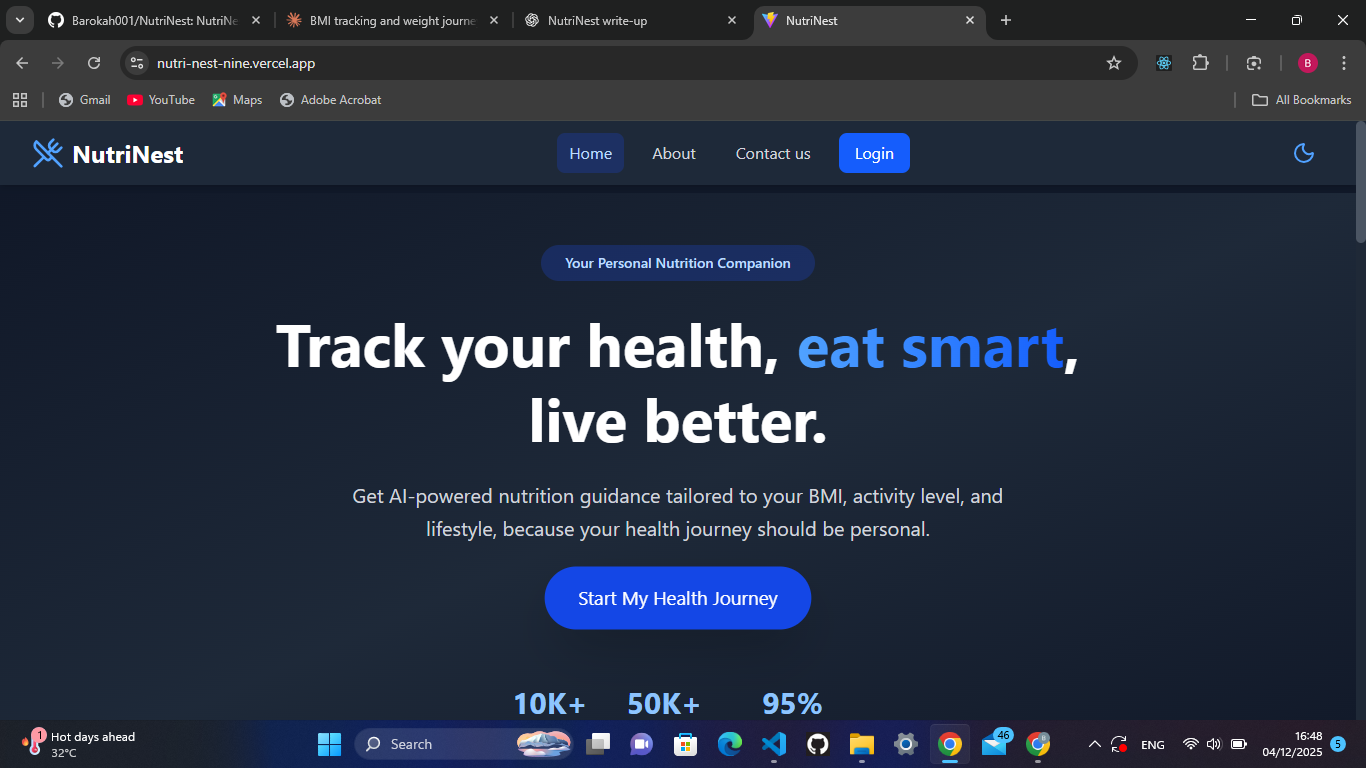
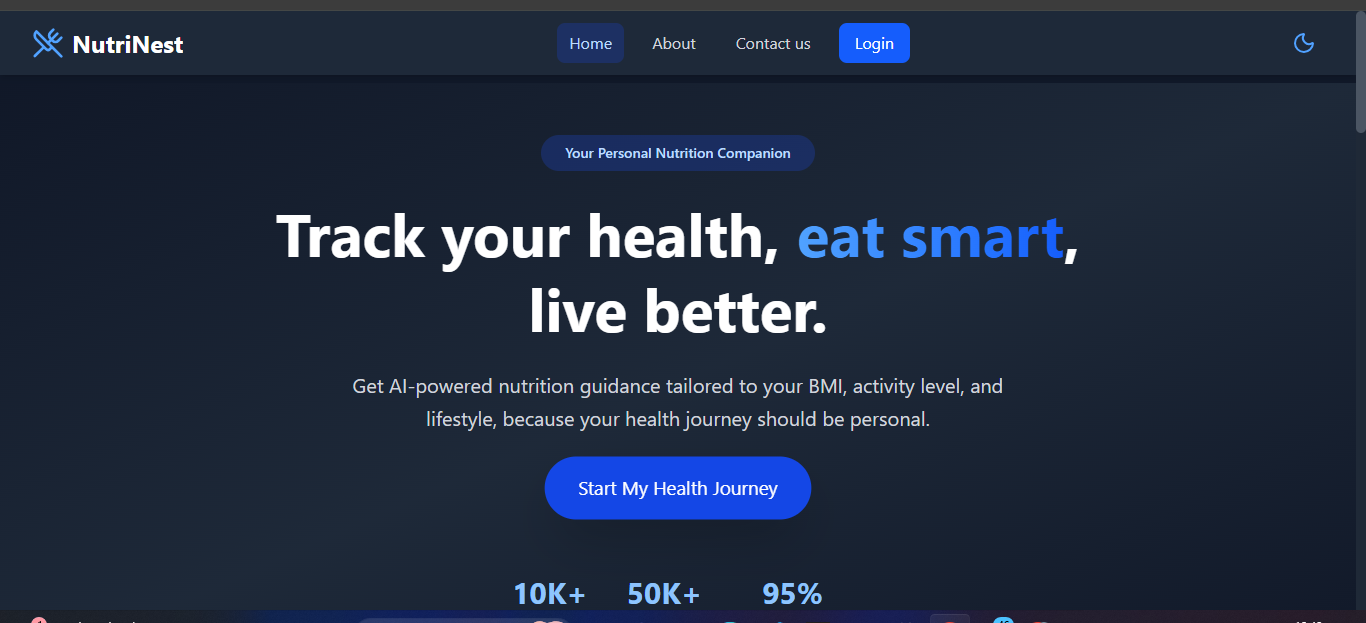
fix: fixed ui designs

diff --git a/src/components/HeroSection.jsx b/src/components/HeroSection.jsx
@@ -11,13 +11,27 @@ const HeroSection = () => {
   return (
     <section
       id="hero"
-      className="relative min-h-screen flex items-center justify-center bg-gradient-to-br from-indigo-900 via-purple-900 to-pink-800 overflow-hidden"
+      className="relative min-h-screen flex items-center justify-center bg-gradient-to-br from-gray-900 via-purple-900 to-gray-900 overflow-hidden"
     >
-      {/* Animated Background Elements */}
+      {/* Animated Background Pattern */}
+      <div className="absolute inset-0 opacity-20">
+        <div
+          className="absolute inset-0"
+          style={{
+            backgroundImage: `radial-gradient(circle at 25px 25px, rgba(167, 139, 250, 0.3) 2%, transparent 0%), 
+                           radial-gradient(circle at 75px 75px, rgba(139, 92, 246, 0.3) 2%, transparent 0%)`,
+            backgroundSize: "100px 100px",
+          }}
+        ></div>
+      </div>
+
+      {/* Gradient Orbs */}
       <div className="absolute inset-0">
-        <div className="absolute top-20 left-10 w-72 h-72 bg-purple-500 rounded-full mix-blend-multiply filter blur-xl opacity-20 animate-blob"></div>
-        <div className="absolute top-40 right-10 w-72 h-72 bg-yellow-500 rounded-full mix-blend-multiply filter blur-xl opacity-20 animate-blob animation-delay-2000"></div>
-        <div className="absolute bottom-20 left-40 w-72 h-72 bg-pink-500 rounded-full mix-blend-multiply filter blur-xl opacity-20 animate-blob animation-delay-4000"></div>
+        <div className="absolute top-1/4 left-1/4 w-96 h-96 bg-purple-600 rounded-full mix-blend-multiply filter blur-3xl opacity-20 animate-pulse"></div>
+        <div
+          className="absolute bottom-1/4 right-1/4 w-96 h-96 bg-blue-600 rounded-full mix-blend-multiply filter blur-3xl opacity-20 animate-pulse"
+          style={{ animationDelay: "1s" }}
+        ></div>
       </div>
 
       {/* Content */}
@@ -32,11 +46,11 @@ const HeroSection = () => {
           <TypewriterText text="Hi, I'm Barokah Oyindamola" speed={80} />
         </h1>
 
-        <p className="text-xl md:text-2xl text-purple-200 mb-4 font-light">
+        <p className="text-xl md:text-2xl text-purple-300 mb-4 font-light">
           Frontend Developer & UI Enthusiast
         </p>
 
-        <p className="text-lg text-purple-100 mb-12 max-w-2xl mx-auto leading-relaxed">
+        <p className="text-lg text-gray-300 mb-12 max-w-2xl mx-auto leading-relaxed">
           Crafting exceptional digital experiences with clean code, modern
           design, and a passion for creating intuitive user interfaces
         </p>
@@ -44,7 +58,7 @@ const HeroSection = () => {
         <div className="flex flex-col sm:flex-row gap-4 justify-center items-center">
           <button
             onClick={scrollToProjects}
-            className="px-8 py-4 bg-white text-purple-900 rounded-full font-semibold hover:shadow-2xl transform hover:-translate-y-1 transition-all"
+            className="px-8 py-4 bg-gradient-to-r from-purple-600 to-blue-600 text-white rounded-full font-semibold hover:shadow-2xl hover:shadow-purple-500/50 transform hover:-translate-y-1 transition-all"
           >
             View My Work
           </button>
@@ -53,42 +67,13 @@ const HeroSection = () => {
             target="_blank"
             rel="noopener noreferrer"
           >
-            <button className="px-8 py-4 border-2 border-white text-white rounded-full font-semibold hover:bg-white hover:text-purple-900 transition-all flex items-center gap-2">
+            <button className="px-8 py-4 border-2 border-white/30 text-white rounded-full font-semibold hover:bg-white/10 backdrop-blur-sm transition-all flex items-center gap-2">
               <Download size={20} />
               Download CV
             </button>
           </a>
         </div>
-
-        {/* Scroll Indicator */}
-        <div className="absolute bottom-10 left-1/2 transform -translate-x-1/2 animate-bounce">
-          <ChevronDown size={32} className="text-white/60" />
-        </div>
       </div>
-
-      <style jsx>{`
-        @keyframes blob {
-          0%,
-          100% {
-            transform: translate(0, 0) scale(1);
-          }
-          33% {
-            transform: translate(30px, -50px) scale(1.1);
-          }
-          66% {
-            transform: translate(-20px, 20px) scale(0.9);
-          }
-        }
-        .animate-blob {
-          animation: blob 7s infinite;
-        }
-        .animation-delay-2000 {
-          animation-delay: 2s;
-        }
-        .animation-delay-4000 {
-          animation-delay: 4s;
-        }
-      `}</style>
     </section>
   );
 };

diff --git a/src/components/Projects.jsx b/src/components/Projects.jsx
@@ -14,7 +14,7 @@ const Projects = () => {
     "A smart, user-friendly nutrition platform that helps users calculate BMI, understand their health metrics, and get personalized guidance for better wellness.",
   detailedDescription:
     "Developed an intuitive nutrition-focused web app that allows users to sign up, input health details, and instantly receive accurate BMI results with clear interpretations. Designed educational sections explaining BMI and calorie needs for both beginners and informed users. Built with modern React patterns, responsive layouts, and smooth UI interactions to ensure an accessible experience across devices.",
-  image: "./images/NutriNest.png",
+  image: "./images/NutrNest.png",
   technologies: ["React", "JavaScript", "Tailwind", "Supabase"],
   techColors: ["text-blue-400", "text-yellow-400", "text-cyan-400", "text-green-400"],
   githubUrl: "https://github.com/Barokah001/NutriNest",
